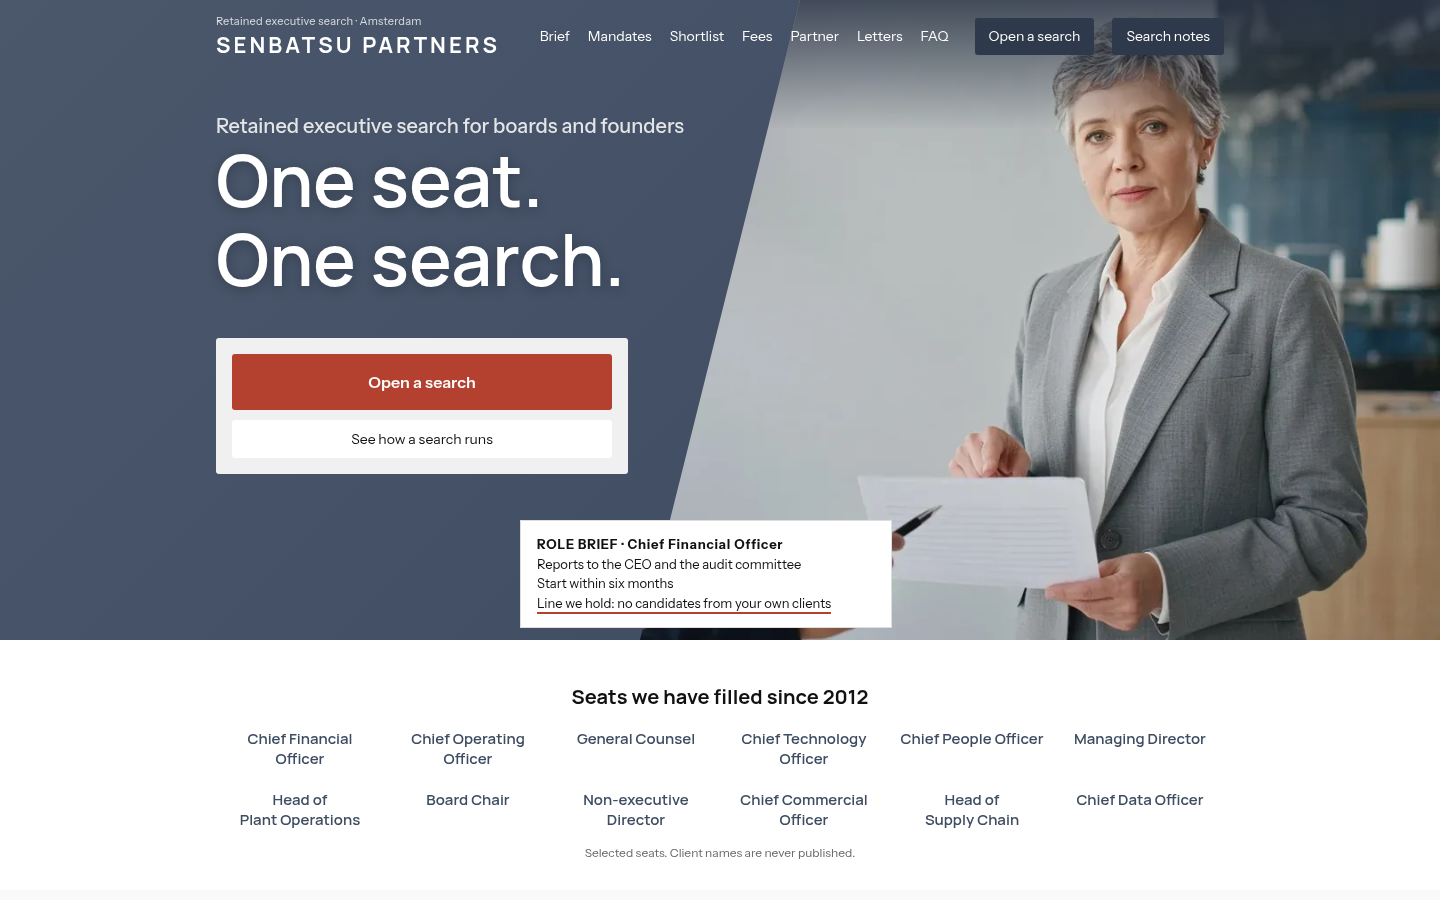
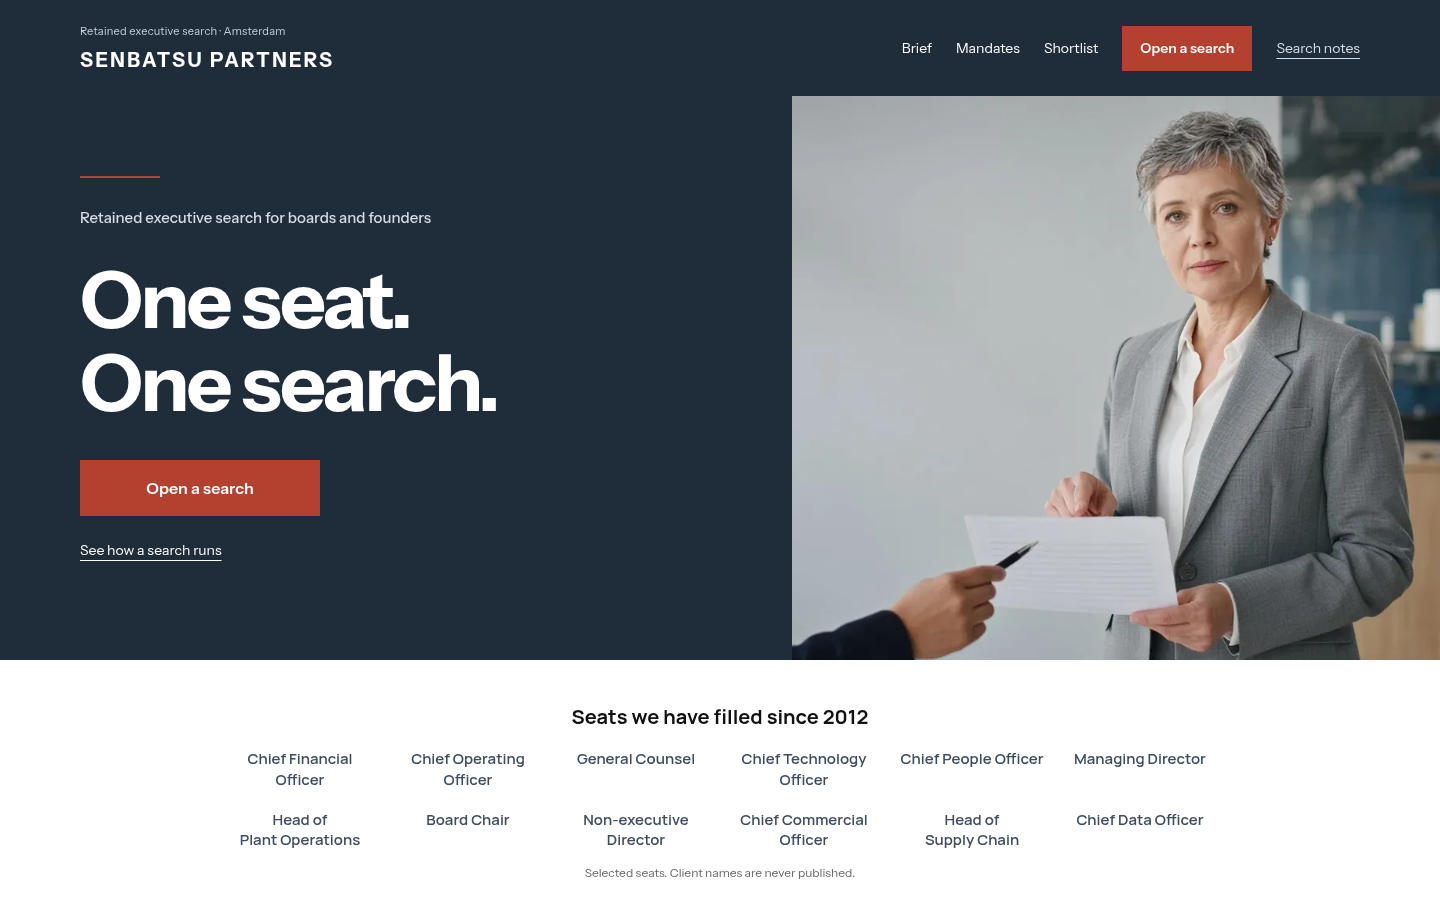
Senbatsu Partners 1.0.1: confident executive-search hero (Fixes #688)
Remove the floating role brief and muddy hero wash; strengthen typography, actions and header hierarchy; match inner heroes and responsive layouts. Five-locale desktop/390/360 visual QA and all normal gates pass.

diff --git a/themes/senbatsu-partners/style.css b/themes/senbatsu-partners/style.css
@@ -4,7 +4,7 @@ Theme URI: https://github.com/oberonlai/shippress-themes/tree/main/themes/senbat
 Author: ShipPress
 Author URI: https://github.com/oberonlai/shippress-themes
 Description: Senbatsu Partners is a WordPress landing theme designed for retained executive search firms, boards, and leadership consultancies. Built around a single-column longform layout with anchor navigation and clear house rules, it presents mandates, partner bios, transparent fees, and process timelines with calm typographic clarity. The theme features documentary photography, responsive fee tables, and subtle scroll motions for professional corporate presentation.
-Version: 1.0.0
+Version: 1.0.1
 Requires at least: 6.6
 Tested up to: 7.1
 Requires PHP: 7.4
@@ -54,34 +54,33 @@ h1, h2, h3, h4 { font-family: var(--sb-disp); }
 section[id] { scroll-margin-top: 24px; }
 a { text-underline-offset: 3px; }
 
-/* ---------- header (lockup, anchor menu, chips) ---------- */
-.sb-header { background: linear-gradient(135deg, #4B576B 0%, #435066 50%, #3C485B 100%); color: #fff; }
-.home .sb-header { position: absolute; top: 0; left: 0; right: 0; background: transparent; }
-.sb-header__bar { display: flex; align-items: center; justify-content: space-between; gap: 24px; width: min(1008px, 100% - 40px); height: 72px; margin: 0 auto; }
-.sb-logo { display: block; line-height: 1; }
+/* ---------- header: quiet navigation, one clear primary action ---------- */
+.sb-header { background: var(--sb-navy-deep); color: #fff; }
+.home .sb-header { position: relative; background: var(--sb-navy-deep); }
+.sb-header__bar { display: flex; align-items: center; justify-content: space-between; gap: 32px; width: min(1280px, 100% - 96px); min-height: 96px; margin: 0 auto; }
+.sb-logo { display: block; line-height: 1; min-width: 0; }
 .sb-logo p { margin: 0; }
-.sb-logo__tag { font-size: .6875rem; line-height: 1.2; color: rgba(255, 255, 255, .8); margin-bottom: 4px !important; letter-spacing: .02em; }
-.sb-logo__name { font: 700 1.375rem/1.1 var(--sb-disp); letter-spacing: .14em; white-space: nowrap; }
+.sb-logo__tag { font-size: .6875rem; line-height: 1.4; color: #c6ced9; margin-bottom: 8px !important; letter-spacing: .02em; }
+.sb-logo__name { font: 700 1.25rem/1.2 var(--sb-body); letter-spacing: .12em; white-space: nowrap; }
 .sb-logo__name a { color: #fff; text-decoration: none; }
 .sb-nav { color: #fff; margin: 0; }
 .sb-nav .wp-block-navigation-item__content { color: #fff; font-size: .875rem; text-decoration: none; padding: 8px 0; }
-.sb-nav .wp-block-navigation-item__content:hover { color: #fff; opacity: .8; }
-.sb-nav .wp-block-navigation__responsive-container-open { color: #fff; font: 600 .875rem var(--sb-body); border: 1px solid rgba(255, 255, 255, .6); border-radius: 3px; padding: 8px 14px; background: transparent; }
+.sb-nav .wp-block-navigation-item__content:hover { text-decoration: underline; }
+.sb-nav .wp-block-navigation__responsive-container-open { color: #fff; font: 600 .875rem var(--sb-body); border: 1px solid #8996a8; border-radius: 0; min-height: 44px; padding: 8px 14px; background: transparent; }
 .sb-nav .wp-block-navigation__responsive-container-open svg { display: none; }
-.sb-nav .wp-block-navigation__responsive-container.is-menu-open { background: var(--sb-navy) !important; }
+.sb-nav .wp-block-navigation__responsive-container.is-menu-open { background: var(--sb-navy-deep) !important; }
 .sb-nav .wp-block-navigation__responsive-container.is-menu-open .wp-block-navigation-item__content { font-size: 1.125rem; padding: 10px 0; }
-@media (min-width: 1100px) {
-	.sb-nav .wp-block-navigation__responsive-container-open { display: none; }
-	.sb-nav .wp-block-navigation__responsive-container:not(.is-menu-open) { display: block; position: static; background: none; width: auto; height: auto; overflow: visible; }
-	.sb-nav .wp-block-navigation__responsive-container:not(.is-menu-open) .wp-block-navigation__responsive-container-close { display: none; }
-	.sb-nav .wp-block-navigation__responsive-container:not(.is-menu-open) .wp-block-navigation__responsive-container-content { display: block; padding: 0; overflow: visible; }
-	.sb-nav .wp-block-navigation__responsive-container:not(.is-menu-open) .wp-block-navigation__container { flex-direction: row; align-items: center; gap: 18px; flex-wrap: nowrap; }
-	.sb-nav .wp-block-navigation__container > li:nth-last-child(-n+2) { margin-left: 0; }
-	.sb-nav .wp-block-navigation__container > li:nth-last-child(2) { margin-left: 8px; }
-	.sb-nav .wp-block-navigation__container > li:nth-last-child(-n+2) .wp-block-navigation-item__content { background: var(--sb-navy-deep); border-radius: 3px; padding: 8px 14px; transition: background-color .2s var(--sb-ease); }
-	.sb-nav .wp-block-navigation__container > li:nth-last-child(-n+2) .wp-block-navigation-item__content:hover { opacity: 1; background: #232d3c; }
+@media (min-width: 1280px) {
+ .sb-nav .wp-block-navigation__responsive-container-open { display: none; }
+ .sb-nav .wp-block-navigation__responsive-container:not(.is-menu-open) { display: block; position: static; background: none; width: auto; height: auto; overflow: visible; }
+ .sb-nav .wp-block-navigation__responsive-container:not(.is-menu-open) .wp-block-navigation__responsive-container-close { display: none; }
+ .sb-nav .wp-block-navigation__responsive-container:not(.is-menu-open) .wp-block-navigation__responsive-container-content { display: block; padding: 0; overflow: visible; }
+ .sb-nav .wp-block-navigation__responsive-container:not(.is-menu-open) .wp-block-navigation__container { flex-direction: row; align-items: center; gap: 24px; flex-wrap: nowrap; }
+ /* The process is the primary route; all section links remain in the mobile menu and page. */
+ .sb-nav .wp-block-navigation__container > li:nth-child(n+4):nth-last-child(n+3) { display: none; }
+ .sb-nav .wp-block-navigation__container > li:nth-last-child(2) .wp-block-navigation-item__content { display: block; background: var(--sb-accent); padding: 12px 18px; font-weight: 600; }
+ .sb-nav .wp-block-navigation__container > li:last-child .wp-block-navigation-item__content { background: none; padding: 8px 0; color: #d5dce5; text-decoration: underline; text-underline-offset: 5px; }
 }
-@media (max-width: 1099px) { .sb-header__bar { height: 56px; } }
 
 /* ---------- the one repeated next step: grey holder, primary over secondary ---------- */
 .sb-holder { background: var(--sb-holder); padding: 16px; width: 412px; max-width: 100%; box-sizing: border-box; display: flex; flex-direction: column; gap: 10px; border-radius: 3px; }
@@ -97,20 +96,24 @@ a { text-underline-offset: 3px; }
 .sb-bare .sb-btn { width: 380px; max-width: 100%; }
 .sb-holder-wrap { display: flex; justify-content: center; margin-top: 48px; }
 
-/* ---------- hero: diagonal seam, role-brief card ---------- */
-.sb-hero { position: relative; height: 640px; overflow: clip; background: linear-gradient(135deg, #4B576B 0%, #435066 50%, #3C485B 100%); color: #fff; margin: 0; }
-.sb-hero__photo { position: absolute; left: 44.44%; right: 0; top: 0; bottom: 0; margin: 0; clip-path: polygon(20% 0, 100% 0, 100% 100%, 0 100%); }
-.sb-hero__photo::after { content: ""; position: absolute; left: 0; right: 0; top: 0; height: 130px; background: linear-gradient(to bottom, rgba(38, 48, 66, .78), rgba(38, 48, 66, 0)); pointer-events: none; }
-.sb-hero__photo img { display: block; width: 100%; height: 100%; object-fit: cover; object-position: 100% 30%; }
-.sb-hero__inner { position: relative; z-index: 2; width: min(1008px, 100% - 40px); height: 100%; margin: 0 auto; padding-top: 112px; box-sizing: border-box; }
-.sb-hero__copy { width: 540px; max-width: 100%; }
-.sb-hero__kicker { margin: 0; font: 500 1.25rem/1.4 var(--sb-body); color: rgba(255, 255, 255, .85); }
-.sb-hero__h1, .sb-hero h1 { margin: 0; color: #fff; font: 600 clamp(2.6rem, 6vw, 4.5rem)/1.1 var(--sb-disp); text-shadow: 0 2px 12px rgba(0, 0, 0, .25); }
-.sb-hero .sb-holder { margin-top: 40px; }
-.sb-brief-card { position: absolute; left: 304px; top: 504px; width: 372px; box-sizing: border-box; background: #fff; border: 1px solid var(--sb-rule); padding: 14px 16px; color: #111; }
-.sb-brief-card p { margin: 0; font-size: .8125rem; line-height: 1.5; color: #111; }
-.sb-brief-card__t { letter-spacing: .06em; }
-.sb-line-held { border-bottom: 2px solid var(--sb-accent); padding-bottom: 1px; }
+/* ---------- hero: opaque navy, natural photo, no floating card ---------- */
+.sb-hero { position: relative; background: var(--sb-navy-deep); color: #fff; margin: 0; }
+.sb-hero__photo { position: absolute; left: 55%; right: 0; top: 0; bottom: 0; margin: 0; }
+.sb-hero__photo img { display: block; width: 100%; height: 100%; object-fit: cover; object-position: 85% 30%; }
+.sb-hero__inner { position: relative; width: min(1280px, 100% - 96px); margin: 0 auto; padding: 80px 0 88px; box-sizing: border-box; }
+.sb-hero__copy { width: 48%; max-width: 560px; min-width: 0; }
+.sb-hero__kicker { margin: 0 0 28px; font: 500 .9375rem/1.6 var(--sb-body); color: #d5dce5; max-width: 32rem; }
+.sb-hero__kicker::before, .sb-seam__h::before { content: ""; display: block; width: 80px; height: 2px; margin-bottom: 28px; background: var(--sb-accent); }
+.sb-hero__h1, .sb-hero h1 { margin: 0; color: #fff; font: 700 clamp(3.125rem, 5.5vw, 5.25rem)/1.05 var(--sb-body); letter-spacing: -.035em; text-shadow: none; overflow-wrap: anywhere; text-wrap: balance; }
+:lang(fr) .sb-hero h1 { font-size: clamp(3rem, 4.8vw, 4.5rem); }
+:is(:lang(zh), :lang(ja)) .sb-hero h1 { font-size: clamp(2.75rem, 4.5vw, 4.25rem); line-height: 1.3; letter-spacing: -.02em; }
+.sb-hero__actions { display: flex; flex-direction: column; align-items: flex-start; gap: 12px; margin-top: 36px; }
+.sb-hero__actions .sb-btn { width: auto; max-width: 100%; }
+.sb-hero__actions .wp-block-button__link { min-height: 56px; height: auto; padding: 16px 24px; border-radius: 0; white-space: normal; overflow-wrap: anywhere; line-height: 1.5; }
+.sb-hero__actions .sb-btn--primary .wp-block-button__link { min-width: 240px; }
+.sb-hero__actions .sb-btn--secondary .wp-block-button__link { background: transparent; color: #fff; padding: 8px 0; min-height: 44px; text-decoration: underline; text-underline-offset: 5px; }
+.sb-hero__actions .sb-btn--secondary .wp-block-button__link:hover { color: #d5dce5; }
+.sb-hero a:focus-visible, .sb-header a:focus-visible { outline: 2px solid #fff; outline-offset: 5px; }
 @media (prefers-reduced-motion: no-preference) {
 	html.sp-js:not(.sp-no-motion) .sb-hero__copy { animation: sb-settle .6s ease-in-out both; }
 	@keyframes sb-settle { from { opacity: .35; transform: translate3d(0, 12px, 0); } to { opacity: 1; transform: none; } }
@@ -267,9 +270,9 @@ hr.sb-rule.wp-block-separator { width: 80px; max-width: 80px; height: 2px; margi
 .sp-form-slot .sp-newsletter-fallback p { grid-column: 1 / -1; margin: 10px 0 0; font-size: .8125rem; }
 
 /* ---------- inner template basics (stage 2 builds the seam heads) ---------- */
-.sb-seam { background: linear-gradient(135deg, #4B576B 0%, #435066 50%, #3C485B 100%); color: #fff; padding: 64px 20px; }
+.sb-seam { background: var(--sb-navy-deep); color: #fff; padding: 64px 20px; }
 .sb-seam > * { width: min(992px, 100%); margin-left: auto; margin-right: auto; }
-.sb-seam h1, .sb-seam__h { color: #fff; font-size: clamp(2.4rem, 4.4vw, 3.25rem); line-height: 1.15; }
+.sb-seam h1, .sb-seam__h { color: #fff; font: 700 clamp(2.4rem, 4.4vw, 3.75rem)/1.15 var(--sb-body); letter-spacing: -.025em; overflow-wrap: anywhere; }
 .sb-single { padding: 96px 20px 120px; }
 .sb-single__cat { margin-bottom: 0; }
 .sb-single__cat a { color: var(--sb-navy); text-decoration: none; }
@@ -280,17 +283,28 @@ hr.sb-rule.wp-block-separator { width: 80px; max-width: 80px; height: 2px; margi
 
 /* ---------- responsive ---------- */
 @media (max-width: 1099px) {
-	.sb-hero { height: auto; min-height: 0; padding: 56px 0 48px; }
-	.sb-hero__photo { left: 55%; }
-	.sb-hero__inner { height: auto; padding-top: 48px; }
-	.sb-hero__copy { width: 52%; }
-	.sb-hero__h1, .sb-hero h1 { font-size: clamp(2.6rem, 6vw, 4.5rem); }
-	.sb-brief-card { position: static; width: 320px; max-width: 100%; margin-top: 24px; }
+ .sb-header__bar { min-height: 80px; }
+ .sb-hero__inner { padding: 56px 0 64px; }
+ .sb-hero__copy { width: 48%; }
+ .sb-hero__h1, .sb-hero h1 { font-size: clamp(2.75rem, 5.5vw, 4rem); }
 	.sb-proof__grid { grid-template-columns: repeat(3, 1fr); }
 	.sb-tiles { grid-template-columns: repeat(2, 1fr); }
 	.sb-lists { grid-template-columns: repeat(2, 1fr); }
 }
 @media (max-width: 781px) {
+ .sb-header__bar { width: calc(100% - 40px); min-height: 80px; gap: 16px; }
+ .sb-hero { display: flex; flex-direction: column; padding: 0; }
+ .sb-hero__inner { width: auto; margin: 0 20px; padding: 36px 0 40px; }
+ .sb-hero__copy { width: 100%; max-width: none; }
+ .sb-hero__photo { position: relative; inset: auto; order: 2; width: 100%; aspect-ratio: 4 / 3; margin: 0; }
+ .sb-hero__photo img { position: absolute; inset: 0; object-position: 80% 35%; }
+ .sb-hero__h1, .sb-hero h1, :lang(fr) .sb-hero h1 { font-size: clamp(2.75rem, 11.5vw, 3.5rem); }
+ :is(:lang(zh), :lang(ja)) .sb-hero h1 { font-size: clamp(2rem, 8.5vw, 3rem); }
+ .sb-hero__kicker { font-size: .875rem; margin-bottom: 24px; }
+ .sb-hero__actions { margin-top: 28px; align-items: stretch; }
+ .sb-hero__actions .sb-btn, .sb-hero__actions .wp-block-button { width: 100%; }
+ .sb-hero__actions .sb-btn--secondary .wp-block-button__link { border: 1px solid #8996a8; min-height: 56px; padding: 14px 20px; text-decoration: none; }
+
 	.sb-band { padding: 72px 20px; }
 	.sb-head--c h2, .sb-head--l h2 { font-size: 1.875rem; }
 	.sb-head h2 br { display: none; }
@@ -317,14 +331,6 @@ hr.sb-rule.wp-block-separator { width: 80px; max-width: 80px; height: 2px; margi
 	.sb-logo__name { font-size: 1.0625rem; letter-spacing: .1em; }
 	.sb-nav .wp-block-navigation__responsive-container-open { padding: 6px 12px; }
 	.sb-header__bar { gap: 12px; }
-	.sb-hero { display: flex; flex-direction: column; padding: 56px 0 24px; }
-	.sb-hero__inner { display: contents; }
-	.sb-hero__copy { order: 1; width: auto; max-width: none; margin: 0 20px; padding-top: 24px; }
-	.sb-hero__h1, .sb-hero h1 { font-size: 2.6rem; }
-	.sb-hero .sb-holder { width: auto; margin-top: 24px; }
-	.sb-hero__photo { position: static; order: 2; margin-top: 28px; aspect-ratio: 4 / 3; clip-path: polygon(0 14%, 100% 0, 100% 100%, 0 100%); }
-	.sb-brief-card { order: 3; width: auto; margin: 16px 20px 0; }
-	.sb-hero__kicker { font-size: 1.0625rem; }
 	.sb-holder { width: 100%; }
 	.sb-proof__grid { grid-template-columns: repeat(2, 1fr); }
 	.sb-eyebrow { font-size: 1rem; }
@@ -333,11 +339,11 @@ hr.sb-rule.wp-block-separator { width: 80px; max-width: 80px; height: 2px; margi
 }
 
 /* ---------- inner pages: seam head, prose, grids ---------- */
-.sb-seam--photo { position: relative; overflow: clip; padding: 0; min-height: 320px; }
+.sb-seam--photo { position: relative; padding: 0; min-height: 320px; }
 .sb-seam--photo > * { width: auto; margin-left: 0; margin-right: 0; }
 .sb-seam__in { position: relative; z-index: 2; width: min(1008px, 100% - 40px) !important; margin: 0 auto !important; padding: 88px 0; box-sizing: border-box; }
 .sb-seam__in .sb-seam__h { max-width: 52%; margin: 0; }
-.sb-seam__photo { position: absolute; left: 58%; right: 0; top: 0; bottom: 0; margin: 0 !important; clip-path: polygon(20% 0, 100% 0, 100% 100%, 0 100%); }
+.sb-seam__photo { position: absolute; left: 58%; right: 0; top: 0; bottom: 0; margin: 0 !important; clip-path: none; }
 .sb-seam__photo img { display: block; width: 100%; height: 100%; object-fit: cover; }
 .sb-seam__photo--top img { object-position: 50% 22%; }
 .sb-seam__photo--left img { object-position: 40% 40%; }
@@ -387,11 +393,11 @@ hr.sb-rule.wp-block-separator { width: 80px; max-width: 80px; height: 2px; margi
 	.sb-parallax-photo.sp-parallax { --sp-par: 5% !important; }
 	.sb-holder--form { padding: 20px; }
 }
-@media (max-width: 599px) {
+@media (max-width: 781px) {
 	.sb-seam--photo { padding: 0; }
 	.sb-seam__in { padding: 40px 0 28px; width: auto !important; margin: 0 20px !important; }
 	.sb-seam__in .sb-seam__h { max-width: none; font-size: 2.4rem; }
-	.sb-seam__photo { position: static; aspect-ratio: 4 / 3; clip-path: polygon(0 14%, 100% 0, 100% 100%, 0 100%); }
+	.sb-seam__photo { position: static; aspect-ratio: 4 / 3; clip-path: none; }
 	.sb-seam__h br { display: none; }
 }
 .sb-facts { margin: 40px 0 0; padding: 20px 24px; background: var(--sb-holder); border-radius: 3px; }

diff --git a/themes/senbatsu-partners/patterns/front-hero.php b/themes/senbatsu-partners/patterns/front-hero.php
@@ -1,6 +1,6 @@
 <?php
 /**
- * Title: Home: diagonal-seam first screen and proof strip
+ * Title: Home: executive-search first screen and proof strip
  * Slug: senbatsu-partners/front-hero
  * Categories: senbatsu-partners
  * Inserter: no
@@ -25,8 +25,8 @@
 <h1 class="wp-block-heading sb-hero__h1"><?php echo wp_kses_post( senbatsu_partners_t( 'k9547cc50' ) ); ?></h1>
 <!-- /wp:heading -->
 
-<!-- wp:group {"className":"sb-holder"} -->
-<div class="wp-block-group sb-holder">
+<!-- wp:group {"className":"sb-hero__actions"} -->
+<div class="wp-block-group sb-hero__actions">
 <!-- wp:buttons {"className":"sb-btn sb-btn--primary"} -->
 <div class="wp-block-buttons sb-btn sb-btn--primary"><!-- wp:button {"width":100} -->
 <div class="wp-block-button has-custom-width wp-block-button__width-100"><a class="wp-block-button__link wp-element-button" href="/contact/"><?php echo wp_kses_post( senbatsu_partners_t( 'k9b410351' ) ); ?></a></div>
@@ -43,25 +43,7 @@
 </div>
 <!-- /wp:group -->
 
-<!-- wp:group {"className":"sb-brief-card"} -->
-<div class="wp-block-group sb-brief-card">
-<!-- wp:paragraph {"className":"sb-brief-card__t"} -->
-<p class="sb-brief-card__t"><strong><?php echo wp_kses_post( senbatsu_partners_t( 'k5a510dd8' ) ); ?></strong></p>
-<!-- /wp:paragraph -->
 
-<!-- wp:paragraph -->
-<p><?php echo wp_kses_post( senbatsu_partners_t( 'kebbef45f' ) ); ?></p>
-<!-- /wp:paragraph -->
-
-<!-- wp:paragraph -->
-<p><?php echo wp_kses_post( senbatsu_partners_t( 'k40e9cc8f' ) ); ?></p>
-<!-- /wp:paragraph -->
-
-<!-- wp:paragraph -->
-<p><span class="sb-line-held"><?php echo wp_kses_post( senbatsu_partners_t( 'k3fe13d50' ) ); ?></span></p>
-<!-- /wp:paragraph -->
-</div>
-<!-- /wp:group -->
 </div>
 <!-- /wp:group -->
 </section>

diff --git a/spec/senbatsu-hero-101.md b/spec/senbatsu-hero-101.md
@@ -1,0 +1,29 @@
+# Senbatsu Partners 1.0.1 — premium executive-search hero
+
+## Plan
+1. RED: regression contracts for no floating role card, opaque navy/no photo wash, content-driven headline height, direct CTA group, consistent inner hero and patch version.
+2. GREEN: replace only hero/header/inner-hero presentation; retain literal blocks, existing translations and form handling.
+3. Review: inspect diff and locale text/CTA sizing; run theme, pattern, form and real WordPress gates.
+4. Verify desktop 1440 and mobile 390/360 in en, zh-TW, ja, fr, de; refresh theme and catalogue screenshots before release.
+
+## Acceptance criteria
+- Given any locale, when the home hero renders, then no floating ROLE BRIEF card or replacement overlay appears.
+- Opaque deep navy, natural full-strength photo, heavier Instrument Sans headline and direct brick CTA without a grey frame.
+- Clear primary/secondary navigation hierarchy; all sections remain reachable.
+- Content-driven height with no blur, clipping or horizontal overflow; full-width wrapping mobile CTAs.
+- Photo inner heroes use the same straight navy/photo split and 80x2 brick rule.
+- Contact/newsletter form contracts and below-fold holders remain unchanged.
+- Versioned release through ordinary PR/CI, never a hand-pushed release tag.
+
+## Scope and risk
+Budget: eleven tracked paths covering hero presentation, palette/metadata/index/readme, this plan and one CI regression test. No new dependencies or public interfaces. Low runtime risk / familiar WordPress CSS: light white-box review plus source, runtime and visual acceptance.
+
+## Test and review record
+- Source contracts initially RED before implementation, then 9/9 GREEN; migrated to Node built-ins in scripts/senbatsu-hero.test.mjs and added to normal theme CI.
+- Separate cleanup review removed obsolete card styling; reviewed mobile cascade/long-label auto-height and unchanged below-fold/form holders.
+- pattern_source.py PASS; check-themes-own.mjs PASS; PHP syntax PASS; git diff --check PASS.
+- Dry-run repo gates labels/tags/woo/themes/import2/nowoo PASS: 18 HTTP pages OK, zero PHP warnings, no duplicates on second import.
+- Fresh WordPress fixtures in en/zh-TW/ja/fr/de: localized home/newsletter hero rendering and contact/newsletter mailto fallback runtime PASS.
+- Visual acceptance: 60 real-WordPress cases across five locales at 1440/390/360px (static home, motion, reduced motion, and newsletter inner hero); no overflow, clipping, overlapping header/title, broken image or floating card. Screenshots visually reviewed before push; screenshot.png refreshed.
+- First-screen saturation: 4.3% (design limit 12%); editor parser: 26 documents, zero invalid blocks.
+- Normal theme regression suite: 117 passed, zero failed, one existing skipped test.

diff --git a/themes/senbatsu-partners/README.md b/themes/senbatsu-partners/README.md
@@ -1,6 +1,8 @@
 # Senbatsu Partners
 
-A block theme for a retained executive search firm: one long conversion page with an anchor menu and a single repeated next step, "Open a search". Dusk-navy diagonal hero with a documentary partner photograph and a grey-framed next-step holder, a proof strip of filled seats, 4 x 2 label-above seat tiles, chevron criteria lists, a shortlist narrative with a parallax corridor band, a transparent fee table, a partner profile, case letters and an FAQ. Manrope for headings, Instrument Sans for reading, and a Noto Sans TC subset for Traditional Chinese headings.
+A block theme for a retained executive search firm: one long conversion page with an anchor menu and a single repeated next step, "Open a search". Solid deep-navy hero with a clear documentary partner photograph, a strong Instrument Sans headline and direct primary/secondary actions, a proof strip of filled seats, 4 x 2 label-above seat tiles, chevron criteria lists, a shortlist narrative with a parallax corridor band, a transparent fee table, a partner profile, case letters and an FAQ. Instrument Sans for hero headings and reading, Manrope for section headings, and a Noto Sans TC subset for Traditional Chinese headings.
+
+Version 1.0.1 removes the floating role-brief card and photo wash, gives inner heroes the same clean split, and stacks the photo/actions on small screens. The original bizreach.jp-inspired 80×2 brick rule and navy/brick relationship remain; the hero field deepens to `#1F2D3B`, with the existing `#B4412F` action colour.
 
 All people, the firm and its fees are fictional. Contact and newsletter sections use the optional ShipPress form slot (Contact Form 7, WPForms, MailPoet or Mailchimp for WP) with a mailto fallback.
 
